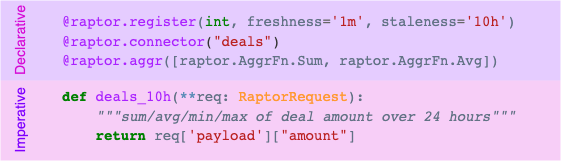
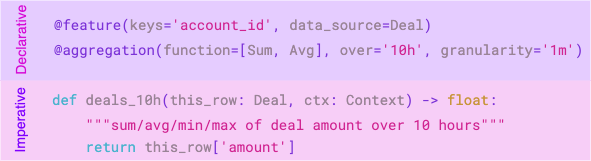
docs: update readme (#262)

diff --git a/labsdk/_test/fake_bank.py b/labsdk/_test/fake_bank.py
@@ -1,0 +1,97 @@
+# -*- coding: utf-8 -*-
+#  Copyright (c) 2022 RaptorML authors.
+#
+#  Licensed under the Apache License, Version 2.0 (the "License");
+#  you may not use this file except in compliance with the License.
+#  You may obtain a copy of the License at
+#
+#      http://www.apache.org/licenses/LICENSE-2.0
+#
+#  Unless required by applicable law or agreed to in writing, software
+#  distributed under the License is distributed on an "AS IS" BASIS,
+#  WITHOUT WARRANTIES OR CONDITIONS OF ANY KIND, either express or implied.
+#  See the License for the specific language governing permissions and
+#  limitations under the License.
+
+import datetime
+import random
+
+import numpy as np
+import pandas as pd
+
+# Define the number of transactions and customers
+num_transactions = 3000
+num_customers = 10
+
+# Create a list of customer IDs
+customer_ids = [f'customer_{i}' for i in range(num_customers)]
+
+# Generate a list of transaction amounts
+transaction_amounts = [random.uniform(10, 500) for i in range(num_transactions)]
+
+# Generate a list of transaction dates
+start_date = datetime.datetime(2023, 1, 1)
+end_date = datetime.datetime(2023, 1, 5)
+date_range = pd.date_range(start_date, end_date, freq='min')
+transaction_dates = np.random.choice(date_range, num_transactions)
+
+# Create a dataframe to store the transactions
+transactions_df = pd.DataFrame({
+    'customer_id': np.random.choice(customer_ids, num_transactions),
+    'amount': transaction_amounts,
+    'timestamp': transaction_dates
+})
+
+# Raptor
+from typing_extensions import TypedDict
+from labsdk.raptor import data_source, Context, feature, aggregation, AggregationFunction, freshness, model, \
+    TrainingContext, StreamingConfig
+
+
+@data_source(
+    training_data=transactions_df,
+    keys=['customer_id'],
+    production_config=StreamingConfig()
+)
+class BankTransaction(TypedDict):
+    customer_id: int
+    amount: float
+    timestamp: str
+
+
+# Define features
+@feature(keys='customer_id', data_source=BankTransaction)
+@aggregation(function=AggregationFunction.Sum, over='10h', granularity='1h')
+def total_spend(this_row: BankTransaction, ctx: Context) -> float:
+    """total spend by a customer in the last hour"""
+    return this_row['amount']
+
+
+@feature(keys='customer_id', data_source=BankTransaction)
+@freshness(target='5h', invalid_after='1d')
+def amount(this_row: BankTransaction, ctx: Context) -> float:
+    """total spend by a customer in the last hour"""
+    return this_row['amount']
+
+
+# Train the model
+@model(
+    keys=['customer_id'],
+    input_features=['total_spend+sum'],
+    input_labels=[amount],
+    model_framework='sklearn',
+    model_server='sagemaker-ack',
+)
+@freshness(target='1h', invalid_after='100h')
+def amount_prediction(ctx: TrainingContext):
+    from sklearn.linear_model import LinearRegression
+
+    df = ctx.features_and_labels()
+
+    trainer = LinearRegression()
+    trainer.fit(df[ctx.input_features], df[ctx.input_labels])
+
+    return trainer
+
+
+amount_prediction.export()

diff --git a/labsdk/_test/main.py b/labsdk/_test/main.py
@@ -25,7 +25,7 @@ from labsdk.raptor import data_source, Context, feature, aggregation, Aggregatio
 
 @data_source(
     training_data=pd.read_parquet(
-        'https://gist.github.com/AlmogBaku/a1b331615eaf1284432d2eecc5fe60bc/raw/emails.parquet'),
+        'https://gist.github.com/AlmogBaku/8be77c2236836177b8e54fa8217411f2/raw/emails.parquet'),
     keys=['id', 'account_id'],
     timestamp='event_at',
     production_config=StreamingConfig(kind='kafka'),
@@ -54,7 +54,7 @@ print(emails_10h.replay().to_markdown())
 
 @data_source(
     training_data=pd.read_csv(
-        'https://gist.githubusercontent.com/AlmogBaku/a1b331615eaf1284432d2eecc5fe60bc/raw/deals.csv'),
+        'https://gist.githubusercontent.com/AlmogBaku/8be77c2236836177b8e54fa8217411f2/raw/deals.csv'),
     keys=['id', 'account_id'],
     timestamp='event_at',
 )

diff --git a/README.md b/README.md
@@ -13,15 +13,17 @@
 
 <br />
 <div align="center">
-  <a href="https://raptor.ml">
-    <img src=".github/logo.svg" alt="RaptorML - Production-ready feature engineering" width="300">
-  </a>
+    <a href="https://raptor.ml">
+        <img src=".github/logo.svg" alt="RaptorML - Production-ready feature engineering" width="300">
+    </a>
 
-<h3 align="center">Serverless feature engineering - from notebook to production</h3>
+<h3 align="center"><p>From notebook to production</p>Compile your data science to production-ready artifacts</h3>
+<br />
 
   <p align="center">
-    Build production-ready ML features, directly from your notebook, without being a software engineer. <br />
-    Focus on <strong>data science</strong>, RaptorML will take care of the engineering overhead.
+    Raptor simplifies deploying data science work from a notebook to production; it compiles your python research
+    code and takes care of the engineering concerns like scalability and reliability on Kubernetes. Focus on
+    the <strong>data science</strong>, RaptorML will take care of the engineering overhead.
     <br />
     <br />
     <a href="https://raptor.ml"><strong>Explore the docs »</strong></a>
@@ -39,11 +41,23 @@
 
 ## 🧐 What is Raptor?
 
-With Raptor, data scientists can stop waiting for others to build production-ready version of their work. Instead,
-slightly
-tweak your Python code and write your features' code in a notebook. Then, export the features to Kubernetes, and
-RaptorML will take care of the production and engineering concerns (such as scale, high availability, authentication,
-caching, monitoring, etc.)
+Raptor **turns any data scientist into an ML engineer** without learning software engineering.
+
+It's made for applied data scientists and ML engineers who want to build operational models and ML-driven functionality
+without the hassle of the infrastructure development, and **focus on the business logic and the research instead.**
+
+With Raptor, data scientists can stop waiting for others to build a "production version" of their work. Instead,
+slightly tweak your Python research code and export it as Kubernetes artifacts. Then, Raptor will take care of the
+production and engineering concerns (such as scale, high availability, authentication, caching,
+monitoring, etc.)
+
+Behind the scenes, Raptor is compiling your Python code into Kubernetes resources and deploying them to your cluster.
+It handles the data-processing and feature calculation in a way that is optimized for production, deploys the model to
+model servers such as Sagemaker or Docker containers, connects to your data sources, and more. Notably, Raptor is
+leveraging Kubernetes, and it's ecosystem to take care engineering best-practices such as scalability, high
+availability,
+and more. This way, Raptor integrates with your existing infrastructure and tools and allows you to connect with the
+rest of your organization's R&D.
 
 [![Colab][colab-button]][colab-url]
 
@@ -56,6 +70,8 @@ caching, monitoring, etc.)
 
 ### ⭐ Key Features
 
+* **Easy to use**<br/>
+  Raptor is designed to be easy to use. You can start using it in 5 minutes.
 * **Same code for both training and production**<br/>
   You can run the same Raptor compatible features in training and production and prevent the *training serving skew*.
 * **Real-Time / On-demand feature calculation**<br/>
@@ -63,24 +79,29 @@ caching, monitoring, etc.)
 * **Caching and storing**<br/>
   Raptor is utilizing an integrated "Reversed Feature-Store" to cache the calculation results and take snapshots of the
   data to cold storage for historical purposes (such as re-training).
-* **Pluggable**<br/>
-  Raptor is highly-pluggable. You can even bring your own storage implementation.
-* **Kubernetes Native and Best-practices Standards**<br/>
+* **Compile data science work into production-ready artifacts**<br/>
   Raptor is implementing by-design best-practices functionalities of Kubernetes solutions such as leader-election,
   scaling, health, auto-recovery, monitoring, logging, and more.
+* **Connect the ML research to the RND team**<br/>
+  Raptor is extending your existing DevOps tools and infrastructure, and it's not replacing them. This way, you can
+  connect your ML research to the rest of your organization's R&D ecosystem and utilize the existing tools such as
+  CI/CD, monitoring, etc.
 
 <p align="right">(<a href="#top">back to top</a>)</p>
 
 ## 💡 How does it work?
 
-Raptor allows you to write your ML features in a way that can be translated for production purposes.
-Features in Raptor are composed a declarative part(via Python's decorators) and a function code. This way, we can
-instruct the "Raptor Core" to implement the "declarative part" and optimize the implementation for production.
+The work with Raptor starts in your research phase, in your notebook, or in your favorite IDE. Raptor allows you to
+write
+your ML work in a way that is translatable for production purposes.
+Assets in Raptor are composed of a declarative part(via Python's decorators) and a function code. This way, "Raptor
+Core" can translate the heavy-lifting engineering concerns(such as aggregations or caching), implement the
+"declarative part", and optimize the implementation for production.
 
 ![Features are composed from a declarative part and a function code][feature-py-def]
 
-After you are satisfied with the results, you can "export" these definitions to Kubernetes and deploy them using
-standard tools; Once deployed, Raptor Core(the server-side part) is extending Kubernetes with the ability to
+After you are satisfied with the results or your research, "export" these definitions to Kubernetes and deploy them
+using standard tools; Once deployed, Raptor Core(the server-side part) is extending Kubernetes with the ability to
 implement them. It takes care of the engineering concerns by managing and controlling Kubernetes-native resources such
 as deployments to connect your production data sources and run your business logic at scale.
 
@@ -119,40 +140,70 @@ the [OperatorHub Installation method](https://operatorhub.io/operator/raptor).
 
 ## 🌍 "Hello World" feature
 
-We know, you played with [the quick starter][colab-url] already, but let's paste here some "hello world" code
-for the lazy bastard out there 👹
-
-_For more examples, please refer to the [Documentation][docs-url]_
-
-### Hello world using the LabSDK
-
-The following code will create a feature that will return `Hello <name>!` when called, where <name> is the `entity_id`
-passed as an argument via the `**kwargs` parameter.
-
 ```python
-@raptor.register(str, freshness="1m", staleness="15m")
-def hello_world(**req: RaptorRequest):
-    return "hello " + req["entity_id"] + "!"
+@feature(keys='name')
+@freshness(target='-1', invalid_after='-1')
+def emails_deals(_, ctx: Context) -> float:
+    return f"hello world {ctx.keys['name']}!"
 ```
 
-To train our data with it, we can "replay" the feature with the following code:
+## 🐍 Full example
 
 ```python
 import pandas as pd
+from typing_extensions import TypedDict
+from labsdk.raptor import *
 
-df = pd.DataFrame({"entity_id": ["John", "Jane", "Joe"]})
-hello_world.replay(df)
+
+@data_source(
+    training_data=pd.read_csv(
+        'https://gist.githubusercontent.com/AlmogBaku/8be77c2236836177b8e54fa8217411f2/raw/hello_world_transactions.csv'),
+    keys=['customer_id'],
+    production_config=StreamingConfig()
+)
+class BankTransaction(TypedDict):
+    customer_id: int
+    amount: float
+    timestamp: str
+
+
+# Define features
+@feature(keys='customer_id', data_source=BankTransaction)
+@aggregation(function=AggregationFunction.Sum, over='10h', granularity='1h')
+def total_spend(this_row: BankTransaction, ctx: Context) -> float:
+    """total spend by a customer in the last hour"""
+    return this_row['amount']
+
+
+@feature(keys='customer_id', data_source=BankTransaction)
+@freshness(target='5h', invalid_after='1d')
+def amount(this_row: BankTransaction, ctx: Context) -> float:
+    """total spend by a customer in the last hour"""
+    return this_row['amount']
+
+
+# Train the model
+@model(
+    keys=['customer_id'],
+    input_features=['total_spend+sum'],
+    input_labels=[amount],
+    model_framework='sklearn',
+    model_server='sagemaker-ack',
+)
+@freshness(target='1h', invalid_after='100h')
+def amount_prediction(ctx: TrainingContext):
+    from sklearn.linear_model import LinearRegression
+
+    df = ctx.features_and_labels()
+
+    trainer = LinearRegression()
+    trainer.fit(df[ctx.input_features], df[ctx.input_labels])
+
+    return trainer
 ```
 
-To export the feature to Kubernetes, we can use the `manifest()` method:
-
-```python
-print(hello_world.manifest())
-```
-
-Then, we can deploy the generated manifest to the cluster
-using [`kubectl`](https://kubernetes.io/docs/reference/kubectl/) or with our CI/CD.
-
+Then, we can deploy the generated resources to Kubernetes using `kubectl` or instructing the DevOps team to integrate
+the generated `Makefile` into the existing CI/CD pipeline.
 <p align="right">(<a href="#top">back to top</a>)</p>
 
 
@@ -161,14 +212,26 @@ using [`kubectl`](https://kubernetes.io/docs/reference/kubectl/) or with our CI/
 
 ## 🏔 Roadmap
 
-- [x] Redis state provider
-- [x] Snowflake historical storage plugin
 - [ ] S3 historical storage plugins
     - [x] S3 storing
     - [ ] S3 fetching data - Spark
-- [ ] KServe Integration
-- [ ] Seldon Integration
-- [ ] Scheduler builder
+- [ ] Deploy models to model servers
+    - [x] Sagemaker ACK
+    - [ ] Seldon
+    - [ ] Kubeflow
+    - [ ] KFServing
+    - [ ] Standalone
+- [ ] Large-scale training
+- [ ] Support more data sources
+    - [x] Kafka
+    - [x] GCP Pub/Sub
+    - [x] Rest
+    - [ ] Snowflake
+    - [ ] BigQuery
+    - [ ] gRPC
+    - [ ] Redis
+    - [ ] Postgres
+    - [ ] GraphQL
 
 See the [open issues](https://github.com/raptor-ml/raptor/issues) for a full list of proposed features (and known
 issues)
@@ -209,36 +272,47 @@ Distributed under the Apache2 License. Read the `LICENSE` file for more informat
 <p align="right">(<a href="#top">back to top</a>)</p>
 
 [godoc-shield]: https://pkg.go.dev/badge/github.com/raptor-ml/raptor.svg
+
 [godoc-url]: https://pkg.go.dev/github.com/raptor-ml/raptor
 
 [contributors-shield]: https://img.shields.io/github/contributors/raptor-ml/raptor.svg?style=flat
+
 [contributors-url]: https://github.com/raptor-ml/raptor/graphs/contributors
 
 [forks-shield]: https://img.shields.io/github/forks/raptor-ml/raptor.svg?style=flat
+
 [forks-url]: https://github.com/raptor-ml/raptor/network/members
 
 [stars-shield]: https://img.shields.io/github/stars/raptor-ml/raptor.svg?style=flat
+
 [stars-url]: https://github.com/raptor-ml/raptor/stargazers
 
 [issues-shield]: https://img.shields.io/github/issues/raptor-ml/raptor.svg?style=flat
+
 [issues-url]: https://github.com/raptor-ml/raptor/issues
 
 [e2e-tests-shield]: https://img.shields.io/github/workflow/status/raptor-ml/raptor/Integration%20Tests?label=Tests
+
 [e2e-tests-url]: https://github.com/raptor-ml/raptor/actions/workflows/test-e2e.yml
 
 [license-shield]: https://img.shields.io/github/license/raptor-ml/raptor.svg?style=flat
+
 [license-url]: https://github.com/raptor-ml/raptor/blob/master/LICENSE.txt
 
 [linkedin-shield]: https://img.shields.io/badge/-LinkedIn-black.svg?style=flat&logo=linkedin&colorB=555
+
 [linkedin-url]: https://linkedin.com/company/raptor-ml
 
 [go-report-card-shield]: https://goreportcard.com/badge/github.com/raptor-ml/raptor
+
 [go-report-card-url]: https://goreportcard.com/report/github.com/raptor-ml/raptor
 
 [best-practices-shield]: https://bestpractices.coreinfrastructure.org/projects/6406/badge
+
 [best-practices-url]: https://bestpractices.coreinfrastructure.org/projects/6406
 
 [colab-button]: https://img.shields.io/badge/-Getting%20started%20with%20Colab-blue?style=for-the-badge&logo=googlecolab
+
 [colab-url]: https://colab.research.google.com/github/raptor-ml/docs/blob/master/docs/guides/getting-started-with-labsdk.ipynb
 
 [docs-url]: https://raptor.ml/
